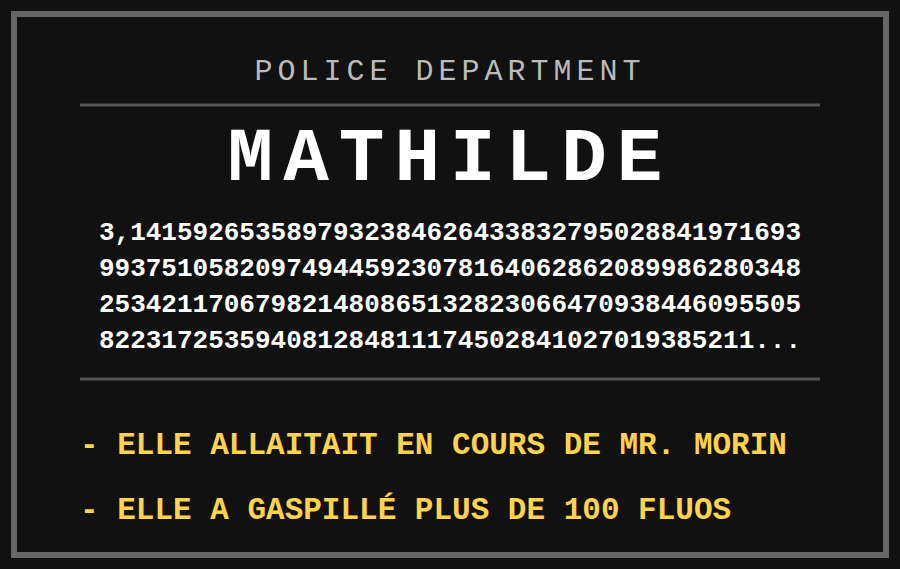
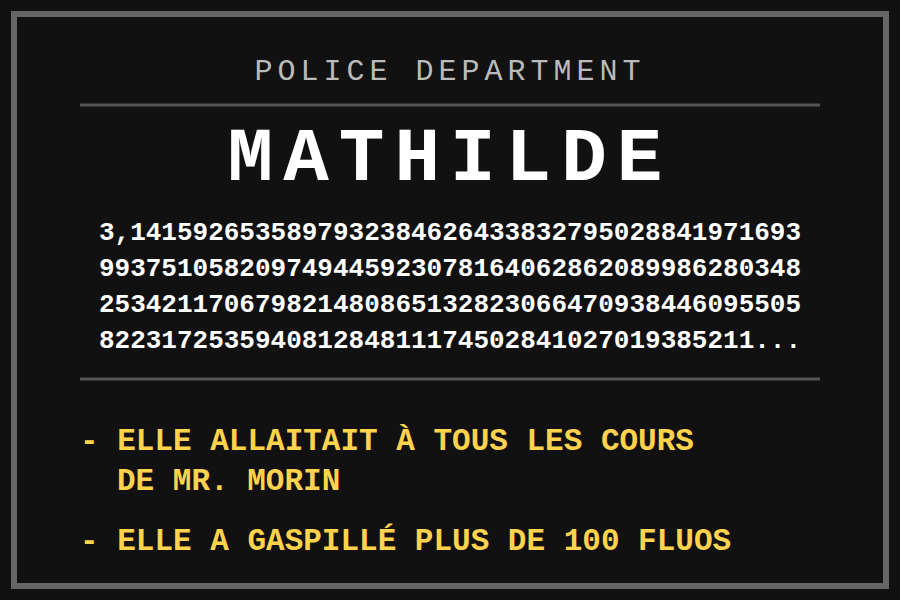
Fix Mathilde placard anecdote wording
Claude-Session: https://claude.ai/code/session_013qRqLeeUSNL2kFqN6GuY8j

diff --git a/mugshot/pancarte_mathilde.html b/mugshot/pancarte_mathilde.html
@@ -1,7 +1,7 @@
 <!doctype html><html><head><meta charset="utf-8"><style>body{margin:0}</style></head><body>
-<svg id="p" xmlns="http://www.w3.org/2000/svg" width="900" height="569" viewBox="0 0 900 569">
-  <rect width="900" height="569" fill="#111"/>
-  <rect x="14" y="14" width="872" height="541" fill="none" stroke="#666" stroke-width="6"/>
+<svg id="p" xmlns="http://www.w3.org/2000/svg" width="900" height="600" viewBox="0 0 900 600">
+  <rect width="900" height="600" fill="#111"/>
+  <rect x="14" y="14" width="872" height="572" fill="none" stroke="#666" stroke-width="6"/>
   <g font-family="Courier New, monospace" text-anchor="middle">
     <text x="450" y="80" font-size="30" fill="#bbb" letter-spacing="5">POLICE DEPARTMENT</text>
     <line x1="80" y1="105" x2="820" y2="105" stroke="#555" stroke-width="3"/>
@@ -10,7 +10,8 @@
     <line x1="80" y1="379" x2="820" y2="379" stroke="#555" stroke-width="3"/>
   </g>
   <g font-family="Courier New, monospace" font-size="31" font-weight="bold" fill="#ffd34d">
-    <text x="80" y="454">- ELLE ALLAITAIT EN COURS DE MR. MORIN</text>
-    <text x="80" y="519">- ELLE A GASPILLÉ PLUS DE 100 FLUOS</text>
+    <text x="80" y="450">- ELLE ALLAITAIT À TOUS LES COURS</text>
+    <text x="117" y="490">DE MR. MORIN</text>
+    <text x="80" y="550">- ELLE A GASPILLÉ PLUS DE 100 FLUOS</text>
   </g>
 </svg></body></html>
